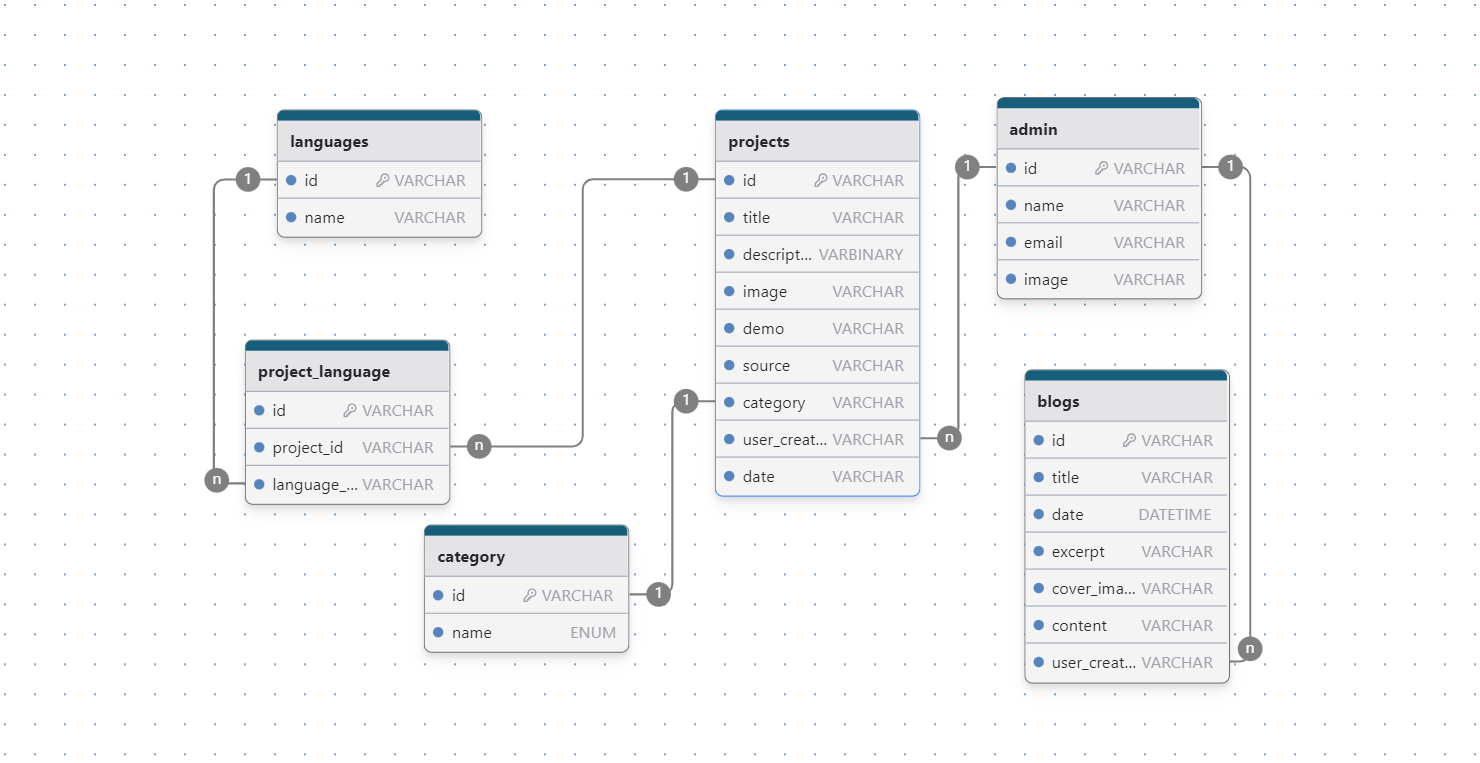
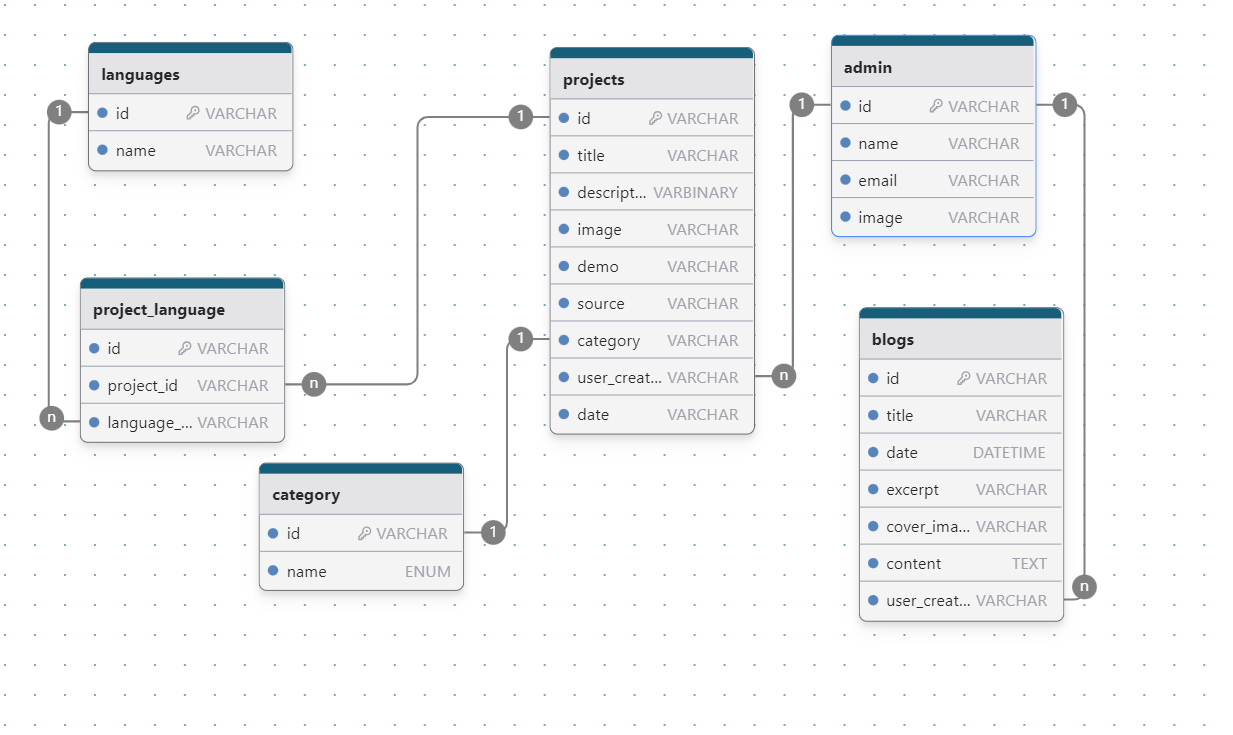
feat: create Blog

Changed region(s): [[0.0308, 0.0299, 0.8938, 0.898], [0.0308, 0.3592, 0.4623, 0.868]]

diff --git a/src/blogs/blogs.module.ts b/src/blogs/blogs.module.ts
@@ -1,9 +1,43 @@
 import { Module } from '@nestjs/common';
 import { BlogsController } from './blogs.controller';
 import { BlogsService } from './blogs.service';
+import { TypeOrmModule } from '@nestjs/typeorm';
+import { Blog } from './blogs.entity';
+import { FastifyMulterModule } from '@nest-lab/fastify-multer';
+import { diskStorage } from 'fastify-multer';
+import { UsersModule } from 'src/users/users.module';
 
 @Module({
+  imports: [
+    TypeOrmModule.forFeature([Blog]),
+    FastifyMulterModule.register({
+      fileFilter: (req, file, cb) => {
+        if (
+          (req.body && file.originalname.match(/\.(md|txt|doc|docx|html)$/)) ||
+          !file.originalname.match(/\.(jpg|jpeg|png|md)$/)
+        ) {
+          return cb(new Error('Only image files are allowed!'), false);
+        }
+        cb(null, true);
+      },
+      storage: diskStorage({
+        destination: 'public/images/blogs',
+        filename: (req: any, file, cb) => {
+          // @ts-ignore
+          cb(
+            null,
+            req.body.title.replace(/\s/g, '') +
+              '-' +
+              Date.now() +
+              '.' +
+              file.originalname.split('.')[1],
+          );
+        },
+      }),
+    }),
+    UsersModule,
+  ],
   controllers: [BlogsController],
-  providers: [BlogsService]
+  providers: [BlogsService],
 })
 export class BlogsModule {}

diff --git a/src/blogs/blogs.service.ts b/src/blogs/blogs.service.ts
@@ -1,4 +1,41 @@
-import { Injectable } from '@nestjs/common';
+import { Injectable, UnauthorizedException } from '@nestjs/common';
+import { InjectRepository } from '@nestjs/typeorm';
+import { Blog } from './blogs.entity';
+import { Repository } from 'typeorm';
+import { CreateBlogDto } from './dtos/create-blog.dtos';
+import { UsersService } from 'src/users/users.service';
 
 @Injectable()
-export class BlogsService {}
+export class BlogsService {
+  constructor(
+    @InjectRepository(Blog)
+    private blogRepo: Repository<Blog>,
+    private userService: UsersService,
+  ) {}
+
+  async findAllBlogs() {
+    return await this.blogRepo.find();
+  }
+
+  async findOneById(id: string) {
+    return await this.blogRepo.findOneBy({ id });
+  }
+
+  async createBlog(body: CreateBlogDto, filePath: string = null) {
+    const admin = await this.userService.getAdminDetails();
+    if (!admin) {
+      throw new UnauthorizedException();
+    }
+    const blog = new Blog();
+    const newBlog = Object.assign(blog, body);
+    newBlog.user = admin;
+    if (filePath) {
+      newBlog.coverImage = filePath;
+    }
+    const saveBlog = this.blogRepo.create(newBlog);
+    await this.blogRepo.save(saveBlog);
+    return {
+      message: 'Blog created successfully',
+    };
+  }
+}

diff --git a/src/blogs/blogs.controller.ts b/src/blogs/blogs.controller.ts
@@ -1,4 +1,31 @@
-import { Controller } from '@nestjs/common';
+import {
+  Body,
+  Controller,
+  Get,
+  Post,
+  UploadedFile,
+  UseGuards,
+  UseInterceptors,
+} from '@nestjs/common';
+import { BlogsService } from './blogs.service';
+import { AuthGuard } from 'src/guards/auth.guard';
+import { FileInterceptor, File } from '@nest-lab/fastify-multer';
+import { CreateBlogDto } from './dtos/create-blog.dtos';
 
 @Controller('blogs')
-export class BlogsController {}
+export class BlogsController {
+  constructor(private blogService: BlogsService) {}
+
+  @UseGuards(AuthGuard)
+  @UseInterceptors(FileInterceptor('image'))
+  @Post()
+  async createBlogDto(@Body() body: CreateBlogDto, @UploadedFile() file: File) {
+    const filePath = file ? file.path : null;
+    return await this.blogService.createBlog(body, filePath);
+  }
+
+  @Get()
+  async getAllBlogs() {
+    return await this.blogService.findAllBlogs();
+  }
+}

diff --git a/src/blogs/blogs.entity.ts b/src/blogs/blogs.entity.ts
@@ -33,9 +33,6 @@ export class Blog {
   @Column({ name: 'cover_image' })
   coverImage: string;
 
-  @Column({ name: 'user_created' })
-  userCreated: string;
-
   @ManyToOne(() => User, (user) => user.blogs)
   @JoinColumn({ name: 'user_created', referencedColumnName: 'id' })
   user: User;

diff --git a/src/blogs/dtos/create-blog.dtos.ts b/src/blogs/dtos/create-blog.dtos.ts
@@ -1,0 +1,12 @@
+import { IsString } from 'class-validator';
+
+export class CreateBlogDto {
+  @IsString()
+  title: string;
+
+  @IsString()
+  excerpt: string;
+
+  @IsString()
+  content: string;
+}
